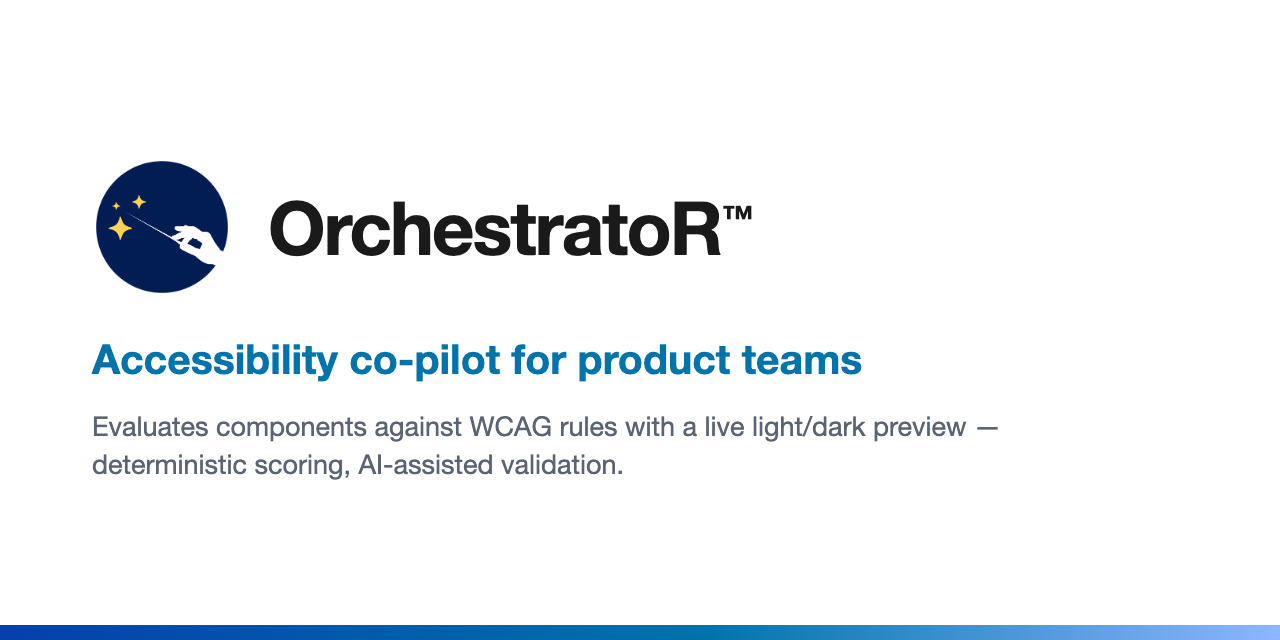
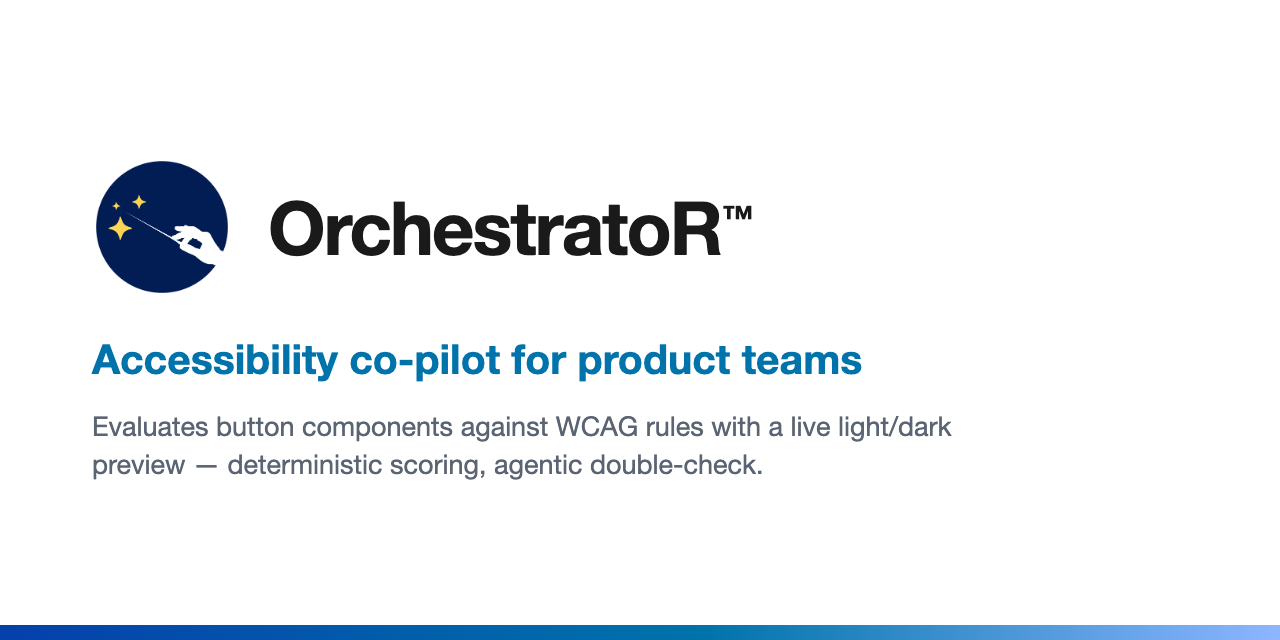
Align social card and metadata wording on "agentic double-check"
The card graphic, the repo About text and the index.html metadata had drifted
apart: the cards said "Evaluates components ... AI-assisted validation" while
the About text said "WCAG evaluation for buttons ... agentic double-check
analysis". Two mismatches — "components" overstated the scope, which is
buttons only, and the two descriptions named the same feature differently.

Settles on "agentic double-check", which matches the feature's name in the
product UI (A11Y DoubleCheck), so a reader sees the same term on the card, in
the description and on the button. Drops the redundant "validation", since a
double-check is a validation.

Regenerates both cards with the corrected sub-line and updates all three
description tags in index.html to match.

The backlog retains its note that "agentic" describes a single RAG-plus-Claude
call rather than a multi-step agent loop, and that "AI-assisted validation" is
the more precise phrasing — that remains a deliberate positioning choice, not
an oversight.

Changed region(s): [[0.0625, 0.625, 0.7812, 0.75]]

diff --git a/index.html b/index.html
@@ -7,7 +7,7 @@
     <title>OrchestratoR™ — Accessibility Co-pilot</title>
     <meta
       name="description"
-      content="Evaluates button components against WCAG rules with a live light/dark preview. Deterministic accessibility scoring with AI-assisted validation. Portfolio demo."
+      content="Evaluates button components against WCAG rules with a live light/dark preview. Deterministic accessibility scoring with an agentic double-check. Portfolio demo."
     />
     <meta name="theme-color" content="#1A1A1A" />
 
@@ -28,7 +28,7 @@
     <meta property="og:title" content="OrchestratoR™ — Accessibility Co-pilot" />
     <meta
       property="og:description"
-      content="Evaluates button components against WCAG rules with a live light/dark preview. Deterministic scoring, AI-assisted validation."
+      content="Evaluates button components against WCAG rules with a live light/dark preview. Deterministic scoring, agentic double-check."
     />
     <meta property="og:url" content="https://demo.orchestratorlabs.ai/" />
     <meta property="og:image" content="https://demo.orchestratorlabs.ai/og-image.png" />
@@ -40,7 +40,7 @@
     <meta name="twitter:title" content="OrchestratoR™ — Accessibility Co-pilot" />
     <meta
       name="twitter:description"
-      content="Evaluates button components against WCAG rules with a live light/dark preview. Deterministic scoring, AI-assisted validation."
+      content="Evaluates button components against WCAG rules with a live light/dark preview. Deterministic scoring, agentic double-check."
     />
     <meta name="twitter:image" content="https://demo.orchestratorlabs.ai/og-image.png" />
   </head>
